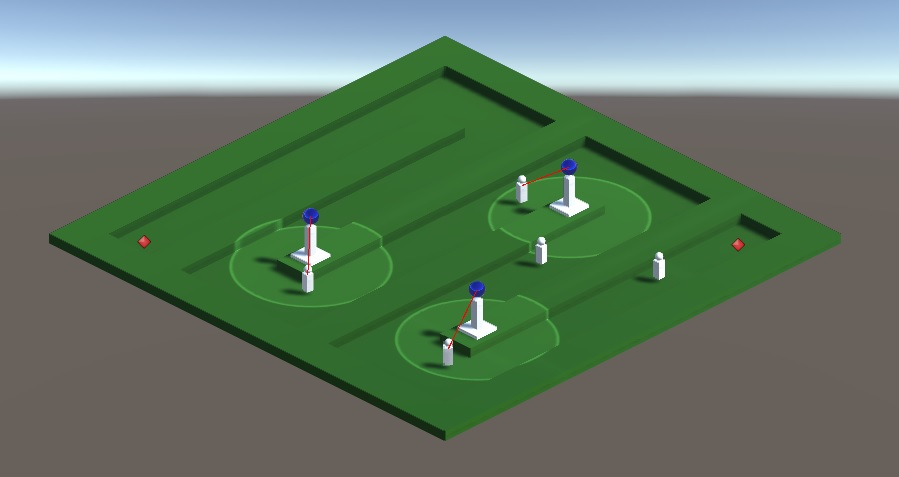
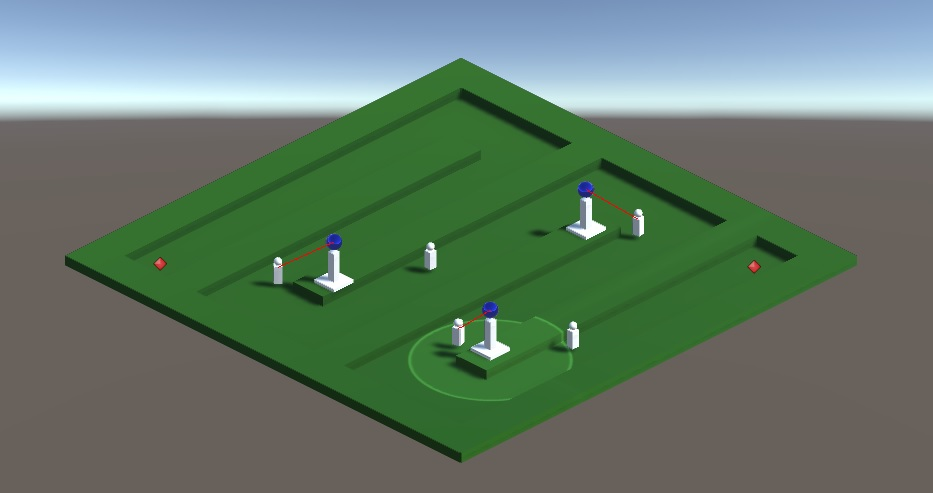
Tower selection
Tower selection implemented.

diff --git a/Assets/Scripts/TowerController.cs b/Assets/Scripts/TowerController.cs
@@ -1,6 +1,7 @@
 using System.Collections;
 using System.Collections.Generic;
 using UnityEngine;
+using System;
 
 /// <summary>
 /// Tower controller. Choosing targets.
@@ -9,16 +10,38 @@ using UnityEngine;
 
 // TODO: Control the tower object depending on what tower is actually build. Different components?
 public class TowerController : MonoBehaviour {
-	GameObject target;
-
 	// TODO: Implement Range Circle resizing, when shootingRange is changed.
 	public float shootingRange = 3f;
+	public event Action<GameObject> onTowerClicked;
+
+	public bool IsSelected {
+		get { return isSelected;}
+		set { 
+			isSelected = value;
+			rangeProjector.enabled = value;
+		}
+	}
+
+	bool isSelected = false;
 
 	Transform shootingBase;
+	GameObject target;
+	Projector rangeProjector;
 
 	void Start(){
 		shootingBase = transform.Find("Shooting Base");
-		if(shootingBase == null) Debug.LogError(gameObject.name + " :: Start - Shooting base child not found.");
+		if(shootingBase == null) Debug.LogError(gameObject.name + " :: Start - Shooting Base child not found.");
+
+		Transform rangeProjectorTransform = transform.Find("Range Projector");
+		if(rangeProjectorTransform == null)
+			Debug.LogError(gameObject.name + " :: Start - Range Projector child not found.");
+		else{
+			Projector rngProjector = rangeProjectorTransform.GetComponent<Projector> ();
+			if (rngProjector == null) {
+				Debug.LogError (gameObject.name + " :: Start - Range Projector does not have Projector component.");
+			} else
+				rangeProjector = rngProjector;
+		}
 	}
 
 	void Update(){
@@ -41,6 +64,10 @@ public class TowerController : MonoBehaviour {
 	GameObject GetTarget(){
 		float distance = Mathf.Infinity;
 		GameObject newTarget = null;
+		if (GameController.unitsList == null) {
+			//Debug.LogError (gameObject.name + " :: GetTarget - GameController unitsList not found");
+			return null;
+		}
 		foreach(GameObject enemyUnit in GameController.unitsList){
 			float newDistance = Vector3.Distance (transform.position, enemyUnit.transform.position);
 			if( newDistance <= distance){
@@ -52,5 +79,11 @@ public class TowerController : MonoBehaviour {
 			return newTarget;
 		else
 			return null;
+	}
+
+	public void OnClick(){
+		Debug.Log (gameObject.name + " :: OnClick");
+		if (onTowerClicked != null)
+			onTowerClicked (gameObject);
 	}
 }

diff --git a/Assets/Scripts/GameController.cs b/Assets/Scripts/GameController.cs
@@ -11,11 +11,16 @@ public class GameController : MonoBehaviour {
 	static public List<GameObject> unitsList;
 
 	List<Spawn> spawnersList;
+	List<TowerController> towersList;
+
+	TowerController selectedTower;
 
 	void Start(){
 		unitsList = new List<GameObject> ();
 		spawnersList = new List<Spawn> ();
+		towersList = new List<TowerController> ();
 
+		//Get spawners list
 		GameObject[] spawners = GameObject.FindGameObjectsWithTag ("Spawner");
 		foreach(GameObject spawner in spawners){
 			Spawn newSpawn = spawner.GetComponent<Spawn> ();
@@ -24,7 +29,18 @@ public class GameController : MonoBehaviour {
 				newSpawn.OnSpawn += OnUnitSpawn;
 			}
 		}
+		if(spawnersList.Count == 0)
+			Debug.LogWarning("GameController :: Start - not spawners found.");
 
+		//Get towers list
+		GameObject[] towers = GameObject.FindGameObjectsWithTag ("Tower");
+		foreach(GameObject tower in towers){
+			TowerController newTower = tower.GetComponent<TowerController> ();
+			if (newTower != null) {
+				towersList.Add (newTower);
+				newTower.onTowerClicked += OnTowerClicked;
+			}
+		}
 		if(spawnersList.Count == 0)
 			Debug.LogWarning("GameController :: Start - not spawners found.");
 	}
@@ -44,5 +60,17 @@ public class GameController : MonoBehaviour {
 
 	void OnUnitDeath(GameObject deadUnitGO){
 		unitsList.Remove (deadUnitGO);
+	}
+
+	void OnTowerClicked(GameObject towerClicked){
+		TowerController clickedTowerController = towerClicked.GetComponent<TowerController> ();
+		if(clickedTowerController == null)
+			Debug.LogError("GameController :: OnTowerClicked - "+towerClicked.name+" does not have TowerController script.");
+		else{
+			if (selectedTower != null)
+				selectedTower.IsSelected = false;
+			selectedTower = clickedTowerController;
+			selectedTower.IsSelected = true;
+		}
 	}
 }

diff --git a/Assets/Scripts/MouseController.cs b/Assets/Scripts/MouseController.cs
@@ -1,0 +1,24 @@
+using System.Collections;
+using System.Collections.Generic;
+using UnityEngine;
+
+/// <summary>
+/// Mouse controller. Handle mouse click.
+/// </summary>
+
+public class MouseController : MonoBehaviour {
+	public LayerMask isClickable;
+
+	void Update () {
+		if(Input.GetButtonDown("Fire1")){
+			Ray ray = Camera.main.ScreenPointToRay (Input.mousePosition);
+			RaycastHit rayHit;
+			if(Physics.Raycast(ray, out rayHit, 100, isClickable)){
+				Debug.Log ("Mouse clicked on " + rayHit.collider.gameObject.name);
+				TowerController towerClicked = rayHit.collider.gameObject.GetComponent<TowerController>();
+				if (towerClicked != null)
+					towerClicked.OnClick ();
+			}
+		}
+	}
+}
